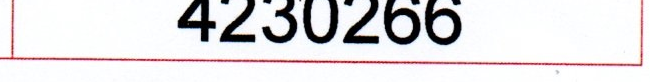
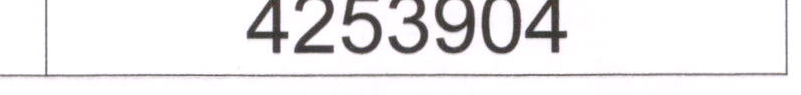
Whitener flag logic updated

Changed region(s): [[0.2462, 0.0, 0.7077, 0.5854], [0.0, 0.0, 1.0, 0.8293], [0.8308, 0.8537, 0.8615, 0.9024]]

diff --git a/CounterFoilScanning.py b/CounterFoilScanning.py
@@ -563,12 +563,11 @@ def determine_final_regno(bubble_regno, handwritten_regno):
     else:
         return bubble_stripped, True, f'MISMATCH: Bubble={bubble_stripped} HW={hw_stripped}'
 
-def detect_whitener_applied(img, grid_x, grid_y, tpl, scale_x, scale_y,
-                            hw_x0, hw_y0, hw_x1, hw_y1):
+def detect_whitener_applied(img, grid_x, grid_y, tpl, scale_x, scale_y):
     """
-    Detect correction-fluid (whitener) patches on the bubble grid and
-    handwritten registration regions. Whitener appears as very bright,
-    low-saturation blobs that are locally brighter than surrounding paper.
+    Detect correction-fluid (whitener) on the 70 OMR bubbles.
+    If any bubble cell contains a bright, low-saturation patch or any column
+    has a fill percent below 5%, the sheet is flagged as whitener-applied.
     """
     h, w = img.shape[:2]
     b_conf = tpl["bubble_grid"]
@@ -577,46 +576,59 @@ def detect_whitener_applied(img, grid_x, grid_y, tpl, scale_x, scale_y,
     col_spacing = b_conf["col_spacing"] * scale_x
     row_spacing = b_conf["row_spacing"] * scale_y
 
-    regions = []
-    bg_y0 = max(0, int(grid_y + row_start - 15))
-    bg_y1 = min(h, int(grid_y + row_start + 9 * row_spacing + 15))
-    bg_x0 = max(0, int(grid_x + col_start - 15))
-    bg_x1 = min(w, int(grid_x + col_start + 8 * col_spacing + 15))
-    if bg_y1 > bg_y0 and bg_x1 > bg_x0:
-        regions.append(img[bg_y0:bg_y1, bg_x0:bg_x1])
+    min_blob_area = max(80, int(40 * scale_x * scale_y))
+    bright_whitener_found = False
+    low_threshold_found = False
 
-    hy0, hy1 = max(0, hw_y0), min(h, hw_y1)
-    hx0, hx1 = max(0, hw_x0), min(w, hw_x1)
-    if hy1 > hy0 and hx1 > hx0:
-        regions.append(img[hy0:hy1, hx0:hx1])
+    for i in range(b_conf["cols"]):
+        col_vals = []
+        for j in range(b_conf["rows"]):
+            cx = int(grid_x + col_start + i * col_spacing)
+            cy = int(grid_y + row_start + j * row_spacing)
+            r = int(max(3, b_conf["sample_radius"] * scale_x))
+            y_min_idx = max(0, cy - r)
+            y_max_idx = min(h, cy + r)
+            x_min_idx = max(0, cx - r)
+            x_max_idx = min(w, cx + r)
+            cell = img[y_min_idx:y_max_idx, x_min_idx:x_max_idx]
+            if cell.size == 0:
+                continue
 
-    min_blob_area = max(60, int(40 * scale_x * scale_y))
+            hsv = cv2.cvtColor(cell, cv2.COLOR_BGR2HSV)
+            gray = cv2.cvtColor(cell, cv2.COLOR_BGR2GRAY)
+            sat = hsv[:, :, 1]
+            val = hsv[:, :, 2]
 
-    for region in regions:
-        if region.size == 0:
-            continue
-        hsv = cv2.cvtColor(region, cv2.COLOR_BGR2HSV)
-        gray = cv2.cvtColor(region, cv2.COLOR_BGR2GRAY)
-        sat = hsv[:, :, 1]
-        val = hsv[:, :, 2]
+            local_mean = cv2.GaussianBlur(gray, (21, 21), 0)
+            whitener_mask = (
+                ((val >= 248) |
+                 (gray.astype(np.int16) > local_mean.astype(np.int16) + 12)) &
+                (sat <= 30)
+            ).astype(np.uint8) * 255
 
-        local_mean = cv2.GaussianBlur(gray, (31, 31), 0)
-        whitener_mask = (
-            (val >= 248) &
-            (sat <= 25) &
-            (gray.astype(np.int16) > local_mean.astype(np.int16) + 8)
-        ).astype(np.uint8) * 255
+            kernel = cv2.getStructuringElement(cv2.MORPH_ELLIPSE, (3, 3))
+            whitener_mask = cv2.morphologyEx(whitener_mask, cv2.MORPH_OPEN, kernel)
 
-        kernel = cv2.getStructuringElement(cv2.MORPH_ELLIPSE, (3, 3))
-        whitener_mask = cv2.morphologyEx(whitener_mask, cv2.MORPH_OPEN, kernel)
+            n_labels, _, stats, _ = cv2.connectedComponentsWithStats(
+                whitener_mask, connectivity=8)
+            for k in range(1, n_labels):
+                if stats[k, cv2.CC_STAT_AREA] >= min_blob_area:
+                    bright_whitener_found = True
+                    break
 
-        n_labels, _, stats, _ = cv2.connectedComponentsWithStats(
-            whitener_mask, connectivity=8)
-        for i in range(1, n_labels):
-            if stats[i, cv2.CC_STAT_AREA] >= min_blob_area:
-                return True
+            col_vals.append((j, np.mean(gray)))
 
-    return False
+        if len(col_vals) >= 3:
+            col_vals_sorted = sorted(col_vals, key=lambda x: x[1])
+            min_val = col_vals_sorted[0][1]
+            unmarked_vals = [x[1] for x in col_vals_sorted[2:]]
+            avg_unmarked = np.mean(unmarked_vals) if unmarked_vals else 255
+            #if avg_unmarked > 0:
+            fill_percent = 100.0 * max(0.0, (avg_unmarked - min_val) / avg_unmarked)
+            if fill_percent < 1.0:
+                low_threshold_found = True
+
+    return bright_whitener_found or low_threshold_found
 
 # ──────────────────────────────────────────────────────────
 # MAIN PROCESSING WRAPPER
@@ -780,9 +792,9 @@ def process_single_sheet_for_demo(img_path):
     subject_code, subject_crop = VisualOMRViewerDemo.extract_subject_code(None, img, scale_x, scale_y)
     booklet_sl_no, omr_threshold, booklet_crop = VisualOMRViewerDemo.extract_booklet_number(None, img, scale_x, scale_y)
 
-    # Whitener flag: True when OMR bubble threshold is below 10%, indicating
-    # correction fluid (whitener) may have been applied on the bubble region.
-    whitenerflag = omr_threshold < 10
+    # Whitener flag: detect actual bright bubble corrections on all 70 bubbles,
+    # or when any bubble column's fill percent is below 5%.
+    whitenerflag = detect_whitener_applied(img, grid_x, grid_y, tpl, scale_x, scale_y)
 
     final_regno, has_disc, disc_detail = determine_final_regno(bubble_regno, handwritten_regno)
     
@@ -1013,14 +1025,14 @@ class VisualOMRViewerDemo:
 
         self.status_lbl = ttk.Label(top, text="Ready",
             style="Pan.TLabel",
-            font=("Segoe UI", fs(9), "italic"),
+            font=("Segoe UI", fs(12), "italic"),
             foreground="#ffeb3b")
         self.status_lbl.pack(side="left", padx=px(8))
 
         self.progress = ttk.Progressbar(
             top, orient="horizontal", length=px(150), mode="determinate",
             style="Thin.Horizontal.TProgressbar")
-        self.progress.pack(side="left", padx=px(4))
+        self.progress.pack(side="left", padx=px(14))
 
         # Right side: Process All + Export buttons
         self.export_btn = ttk.Button(top, text="Export to Excel",
@@ -1353,14 +1365,16 @@ class VisualOMRViewerDemo:
             text=" Signature Regions ",
             bg=P, fg=AC,
             font=("Segoe UI", fs(8), "bold"), bd=1, relief="solid")
-        sig_lf.pack(fill="x", padx=px(8), pady=px(3))
+        sig_lf.pack(fill="both", padx=px(8), pady=px(3), ipady=px(18))
         sig_lf.columnconfigure(0, weight=1)
         sig_lf.columnconfigure(1, weight=1)
+        sig_lf.rowconfigure(0, weight=1)
 
         cand_wrap = tk.LabelFrame(sig_lf, text=" Candidate ",
             bg=P, fg=FGD, font=("Segoe UI", fs(7)), bd=1)
         cand_wrap.grid(row=0, column=0, sticky="nsew",
                        padx=(px(3), px(2)), pady=px(3))
+        cand_wrap.rowconfigure(0, weight=1)
         self.cand_sig_lbl = tk.Label(cand_wrap, bg=P)
         self.cand_sig_lbl.pack(fill="both", expand=True)
 
@@ -1368,6 +1382,7 @@ class VisualOMRViewerDemo:
             bg=P, fg=FGD, font=("Segoe UI", fs(7)), bd=1)
         inv_wrap.grid(row=0, column=1, sticky="nsew",
                       padx=(px(2), px(3)), pady=px(3))
+        inv_wrap.rowconfigure(0, weight=1)
         self.inv_sig_lbl = tk.Label(inv_wrap, bg=P)
         self.inv_sig_lbl.pack(fill="both", expand=True)
 